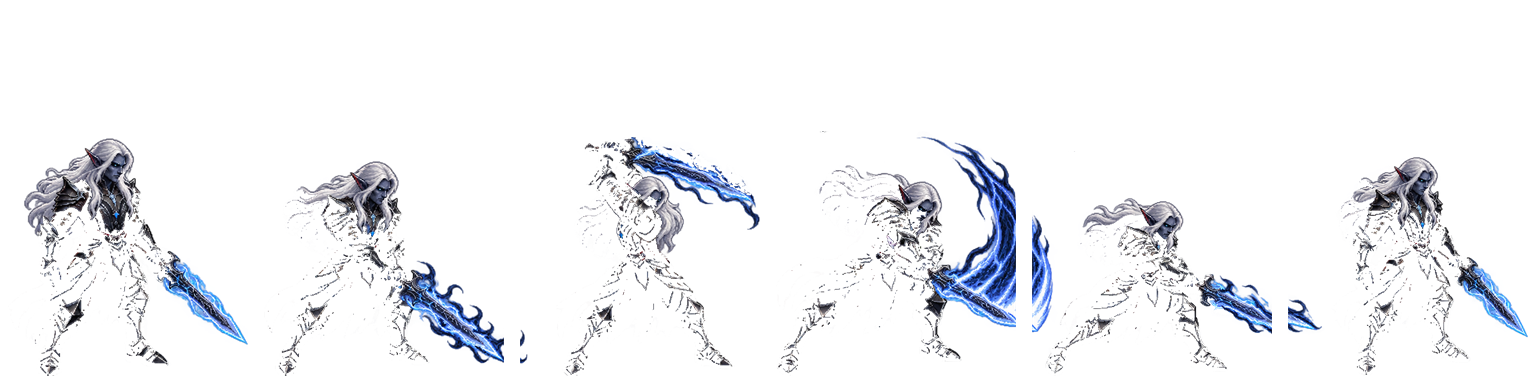
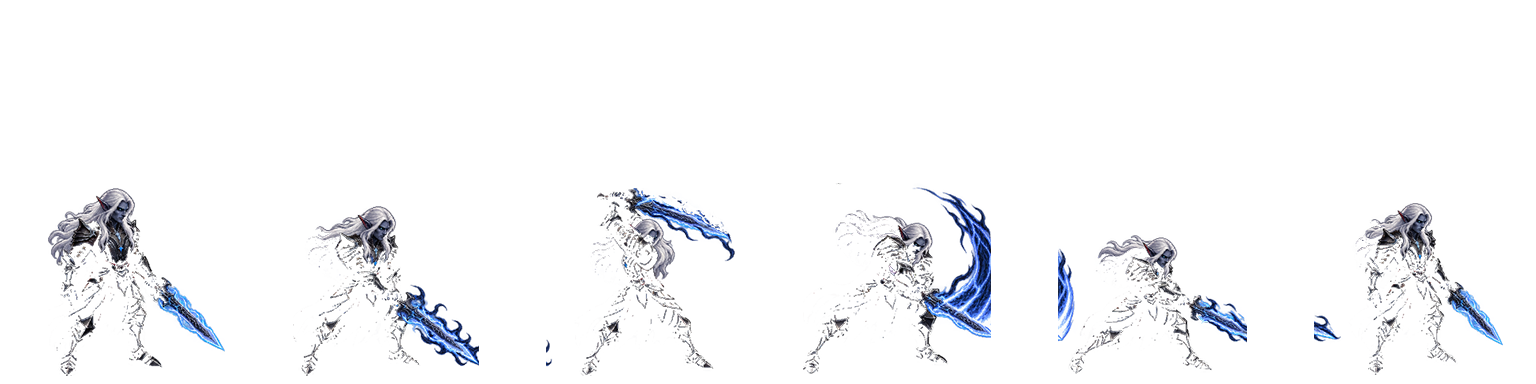
Scale attack, active and death strips with the idle reduction and fix Maelor move_s edges (BUG-021)

Changed region(s): [[0.3438, 0.3438, 1.0, 0.9688], [0.0, 0.3438, 0.1562, 0.9688], [0.1875, 0.4062, 0.3438, 0.9688]]

diff --git a/.atena/backlog/BUGS.md b/.atena/backlog/BUGS.md
@@ -54,7 +54,7 @@ abaixo. Cada item vira BUG-nnn se falhar.
 | BUG-014 | P1 | Ritual: concluir não dá recompensa e a penalidade vira XP | EVID-106 IN-001 (Dagruve, regra `rituals`) | **Reclassificado como mecânica (D1, 2026-09-29):** recompensa em MEC-026 (SPEC-084); aguarda playtest. T03 discorda (contestado). [Histórico](#bug-014) | — |
 | BUG-015 | P1 | Ferreiro: prévia Nv+1 mostra os mesmos mods e o +15 % é truncado | [EVID-107](../evidence/EVID-107-playtest-publico-t02-hiago-2026-09-29.md) IN-028 | **IMPLEMENTADO 2026-09-29**: `Items.scaled_mods`/`upgrade_preview`; `mods_text` não trunca mais. Reabre a verificação de BUG-008; aguarda run real. [Histórico](#bug-015) | — |
 | BUG-020 | P1 | Bloco de notas (F5) aberto sobre HQ: espaço avança a HQ em vez de digitar; o bloco deve ficar em primeiro plano e capturar o foco | [EVID-139](../evidence/EVID-139-playtest-higor-qa-14b15e4-2026-10-01.md) IN-041 | **IMPLEMENTADO 2026-10-01** (`ui/hq_screen.gd` ignora entrada com o F5 aberto; `Playtest.is_note_open()`; teste em `tests/test_hqs.gd`). Falta conferir em run real | — |
-| BUG-021 | P1 | Heróis (Brook, Durvall, Leoric, Kayron, Korrak…) esticam/alargam/afinam ao andar; Sylas não | [EVID-139](../evidence/EVID-139-playtest-higor-qa-14b15e4-2026-10-01.md) IN-044 | **Causa medida** (`audit_hero_motion`): cada tira foi encaixada na célula 256×384 com escala própria; altura da mesma figura varia de 215 a 368 px entre idle e direções. Plano: normalizar por escala única por herói (altura do idle) e mesma linha de base; regenerar só o que ficar fora. Antecedente: SPEC-101 / EVID-129. **PARCIAL 2026-10-01** ([SPEC-112](../specs/SPEC-112-normalizacao-base-e-bordas-dos-herois.md), [EVID-140](../evidence/EVID-140-normalizacao-base-e-bordas-dos-herois-2026-10-01.md)): base e bordas corrigidas (27 tiras, `edge_frames` = 0, suíte ok). **IMPLEMENTADO 2026-10-01 (altura entre direções):** `tools/normalize_hero_scale.gd` aplicado em Brook, Durvall, Leoric, Bromnor e Maelor (30 tiras; andar alinhado à altura e base do idle; Maelor `move_n`/`move_e` voltaram à base 364); `HERO_IDLE_ART_HEIGHT` atualizada (durvall 279, bromnor 284, leoric 270); `edge_frames` = 0, suíte ok. **2ª passada 2026-10-01** (relato do dono: "Leoric cresce ao andar para baixo"; as tiras Leste/Sudeste ficavam ~15% menores que Sul/Norte): `--residual=1.0` em Leoric, Durvall e Bromnor, partindo dos originais; todas as tiras de cada herói na mesma altura (Leoric 224, Durvall 231, Bromnor 241) e `HERO_IDLE_ART_HEIGHT` atualizada; o tamanho em tela não muda. Falta olho no jogo e regerar o `ASSET-OFFICIAL-LOCK` | — |
+| BUG-021 | P1 | Heróis (Brook, Durvall, Leoric, Kayron, Korrak…) esticam/alargam/afinam ao andar; Sylas não | [EVID-139](../evidence/EVID-139-playtest-higor-qa-14b15e4-2026-10-01.md) IN-044 | **Causa medida** (`audit_hero_motion`): cada tira foi encaixada na célula 256×384 com escala própria; altura da mesma figura varia de 215 a 368 px entre idle e direções. Plano: normalizar por escala única por herói (altura do idle) e mesma linha de base; regenerar só o que ficar fora. Antecedente: SPEC-101 / EVID-129. **PARCIAL 2026-10-01** ([SPEC-112](../specs/SPEC-112-normalizacao-base-e-bordas-dos-herois.md), [EVID-140](../evidence/EVID-140-normalizacao-base-e-bordas-dos-herois-2026-10-01.md)): base e bordas corrigidas (27 tiras, `edge_frames` = 0, suíte ok). **IMPLEMENTADO 2026-10-01 (altura entre direções):** `tools/normalize_hero_scale.gd` aplicado em Brook, Durvall, Leoric, Bromnor e Maelor (30 tiras; andar alinhado à altura e base do idle; Maelor `move_n`/`move_e` voltaram à base 364); `HERO_IDLE_ART_HEIGHT` atualizada (durvall 279, bromnor 284, leoric 270); `edge_frames` = 0, suíte ok. **2ª passada 2026-10-01** (relato do dono: "Leoric cresce ao andar para baixo"; as tiras Leste/Sudeste ficavam ~15% menores que Sul/Norte): `--residual=1.0` em Leoric, Durvall e Bromnor, partindo dos originais; todas as tiras de cada herói na mesma altura (Leoric 224, Durvall 231, Bromnor 241) e `HERO_IDLE_ART_HEIGHT` atualizada; o tamanho em tela não muda. **3ª passada 2026-10-01:** ao reduzir o idle, as tiras de ataque, habilidade e morte ficaram do tamanho antigo e os heróis "cresciam" ~20% ao atacar (Bromnor, Durvall, Korrak e Sylas; 11 a 14% em Kayron, Leoric e Maelor); aplicado a essas tiras o mesmo fator do idle (`--factor=`), relação ataque/idle de antes restaurada; Maelor `move_s` sem quadros na borda. Sobra a Nyrelia `move_e` (~15% menor, irregular; pipeline próprio com base fixa em 367). Falta olho no jogo e regerar o `ASSET-OFFICIAL-LOCK` | — |
 | BUG-022 | P2 | HQ "A Peregrinação da Estrela", quadro 2: braço de Korrak fundido ao machado | [EVID-139](../evidence/EVID-139-playtest-higor-qa-14b15e4-2026-10-01.md) IN-042 | Aberto. Regenerar/retocar o quadro (restante da imagem aprovado) | — |
 
 > Decisão do dono (2026-09-29): as verificações BUG-003 a 010 são pagas **no
